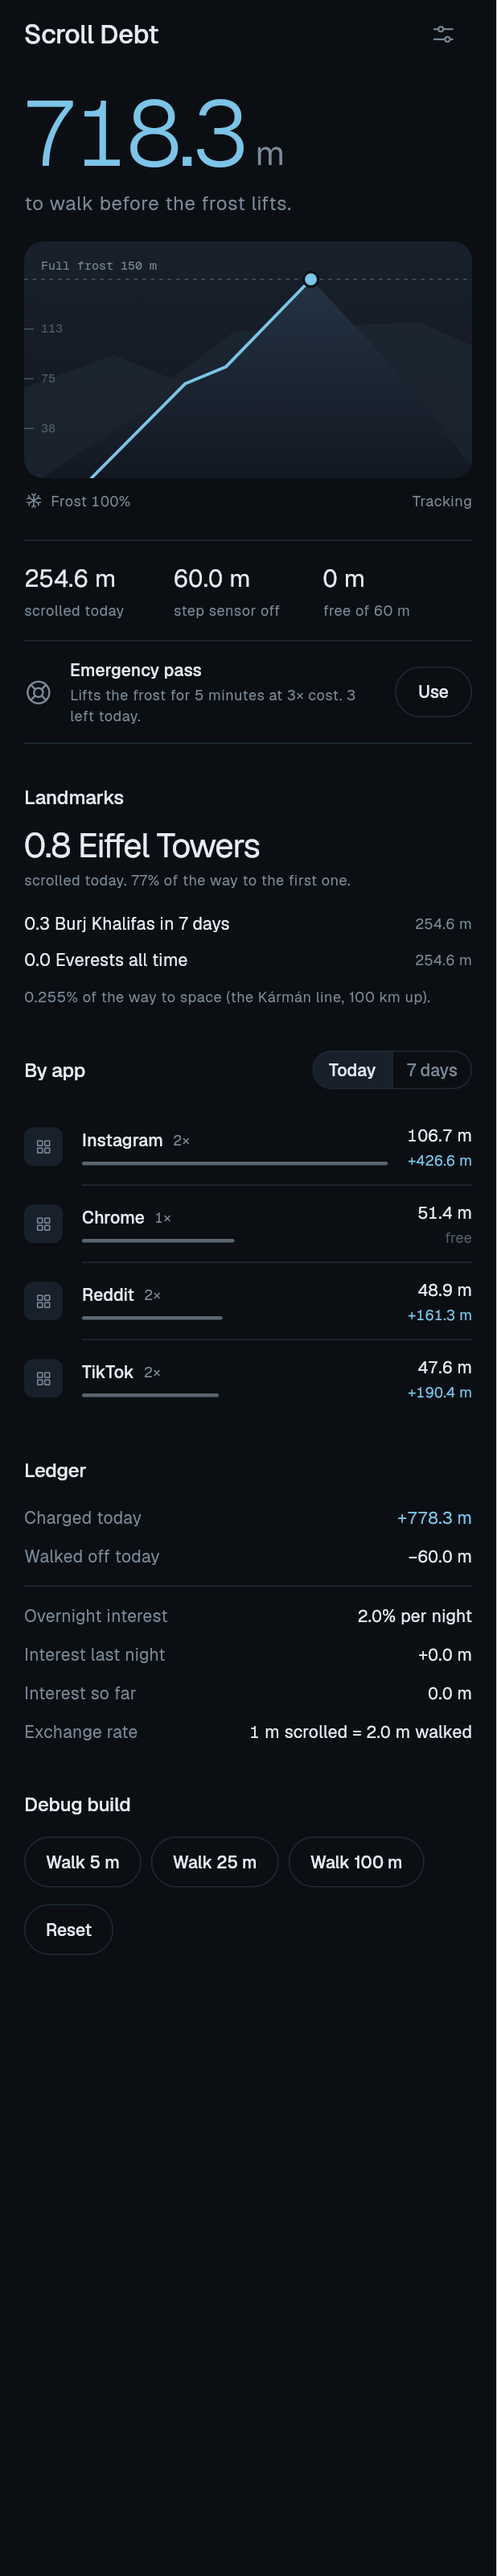
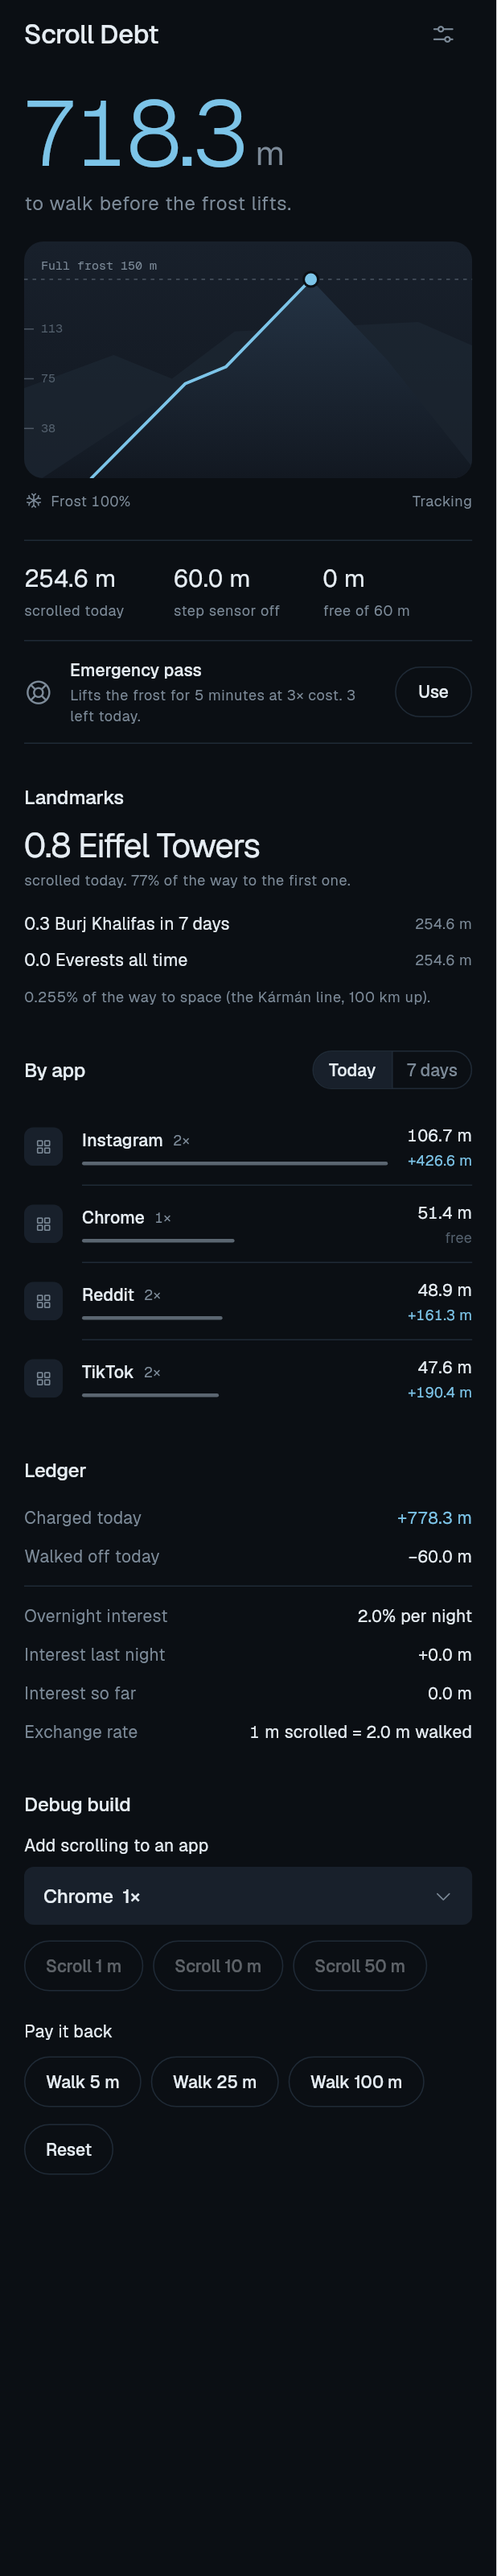
Debug builds: inject scroll metres into any app
Dashboard Debug section gets an app picker with Scroll 1/10/50 m buttons,
and adb gets DEBUG_SCROLL (--es pkg, --ef metres). Injected metres use the
same charging path as real scrolling (allowance, app rate, ratio, pass
penalty); exempt and free apps are ignored. Dropdown arrows now use the
bundled Phosphor caret.

Claude-Session: https://claude.ai/code/session_01YCY2t1jaTZchcHkSfcDLD6

Changed region(s): [[0.0922, 0.7188, 0.246, 0.8438], [0.7379, 0.75, 0.7686, 0.7812]]

diff --git a/lib/ui/home_screen.dart b/lib/ui/home_screen.dart
@@ -8,6 +8,7 @@ import '../core/app_catalog.dart';
 import '../core/landmarks.dart';
 import '../core/units.dart';
 import '../services/controller.dart';
+import '../services/native_bridge.dart';
 import '../services/store.dart';
 import 'altitude_gauge.dart';
 import 'icons.dart';
@@ -480,14 +481,75 @@ class _Ledger extends StatelessWidget {
       '${t.day}.${t.month}. ${t.hour.toString().padLeft(2, '0')}:${t.minute.toString().padLeft(2, '0')}';
 }
 
-class _DebugTools extends StatelessWidget {
+class _DebugTools extends StatefulWidget {
   const _DebugTools({required this.c});
   final ScrollDebtController c;
 
   @override
-  Widget build(BuildContext context) => Wrap(spacing: 8, runSpacing: 8, children: [
-        for (final m in [5.0, 25.0, 100.0])
-          OutlinedButton(onPressed: () => c.debugInjectWalk(m), child: Text('Walk ${m.toStringAsFixed(0)} m')),
-        OutlinedButton(onPressed: c.resetAll, child: const Text('Reset')),
-      ]);
+  State<_DebugTools> createState() => _DebugToolsState();
+}
+
+/// Debug builds only: fake scrolling in any app and fake walking, both
+/// through the same pricing path as the real sensors.
+class _DebugToolsState extends State<_DebugTools> {
+  late final Future<List<AppMeta>> _apps;
+  String? _pkg;
+
+  @override
+  void initState() {
+    super.initState();
+    _apps = widget.c.launchableApps().catchError((Object _) => <AppMeta>[]);
+  }
+
+  @override
+  Widget build(BuildContext context) {
+    final c = widget.c;
+    final t = Theme.of(context).textTheme;
+    return FutureBuilder<List<AppMeta>>(
+      future: _apps,
+      builder: (context, snap) {
+        final apps = (snap.data ?? const <AppMeta>[]).where((a) => !c.catalog.isExempt(a.pkg)).toList()
+          ..sort((a, b) => a.label.toLowerCase().compareTo(b.label.toLowerCase()));
+        final pkg = _pkg ?? (apps.isNotEmpty ? apps.first.pkg : null);
+        return Column(crossAxisAlignment: CrossAxisAlignment.start, children: [
+          Text('Add scrolling to an app', style: t.bodyMedium),
+          const SizedBox(height: 8),
+          if (apps.isEmpty)
+            Text('Loading apps…', style: t.bodySmall)
+          else
+            DropdownButtonFormField<String>(
+              initialValue: pkg,
+              isExpanded: true,
+              icon: const Icon(Ph.caretDown, size: 16, color: Palette.muted),
+              dropdownColor: Palette.raised2,
+              borderRadius: BorderRadius.circular(Radii.small),
+              items: [
+                for (final a in apps)
+                  DropdownMenuItem(
+                    value: a.pkg,
+                    child: Text('${a.label}  ${rateLabel(c.catalog.rateFor(a.pkg))}', overflow: TextOverflow.ellipsis),
+                  ),
+              ],
+              onChanged: (v) => setState(() => _pkg = v),
+            ),
+          const SizedBox(height: 10),
+          Wrap(spacing: 8, runSpacing: 8, children: [
+            for (final m in [1.0, 10.0, 50.0])
+              OutlinedButton(
+                onPressed: pkg == null ? null : () => c.debugInjectScroll(pkg, m),
+                child: Text('Scroll ${m.toStringAsFixed(0)} m'),
+              ),
+          ]),
+          const SizedBox(height: 20),
+          Text('Pay it back', style: t.bodyMedium),
+          const SizedBox(height: 8),
+          Wrap(spacing: 8, runSpacing: 8, children: [
+            for (final m in [5.0, 25.0, 100.0])
+              OutlinedButton(onPressed: () => c.debugInjectWalk(m), child: Text('Walk ${m.toStringAsFixed(0)} m')),
+            OutlinedButton(onPressed: c.resetAll, child: const Text('Reset')),
+          ]),
+        ]);
+      },
+    );
+  }
 }

diff --git a/lib/services/controller.dart b/lib/services/controller.dart
@@ -186,6 +186,11 @@ class ScrollDebtController extends ChangeNotifier {
           final m = ((args as Map<Object?, Object?>)['metres'] as num).toDouble();
           _applyWalk(m, source: 'debug');
         }
+      case 'debugInjectScroll':
+        if (kDebugMode) {
+          final a = args as Map<Object?, Object?>;
+          debugInjectScroll(a['pkg'] as String, (a['metres'] as num).toDouble());
+        }
       case 'debugDump':
         if (kDebugMode) {
           _log('dump ${jsonEncode(state.toJson())} frost=${frostLevel.toStringAsFixed(3)} '
@@ -205,19 +210,23 @@ class ScrollDebtController extends ChangeNotifier {
     }
     _setForeground(e.pkg);
     if (s.metres <= 0) return;
-    final rate = catalog.rateFor(e.pkg);
-    if (rate <= 0) return;
-    final now = DateTime.fromMillisecondsSinceEpoch(e.timeMs);
-    final rolled = _engine.state.dayKey != dayKeyOf(now);
     final weight = _flick.weigh(e.pkg, s.metres, e.timeMs);
-    final charge = _engine.applyScroll(metres: s.metres, appRate: rate, at: now, velocityWeight: weight);
+    _chargeScroll(e.pkg, s.metres, DateTime.fromMillisecondsSinceEpoch(e.timeMs),
+        weight: weight, source: '${s.source.name} px=${s.pixels.toStringAsFixed(0)}');
+  }
+
+  /// The single charging path for scrolled distance (real or injected).
+  void _chargeScroll(String pkg, double metres, DateTime at, {double weight = 1, required String source}) {
+    final rate = catalog.rateFor(pkg);
+    if (rate <= 0 || metres <= 0) return;
+    final rolled = _engine.state.dayKey != dayKeyOf(at);
+    final charge = _engine.applyScroll(metres: metres, appRate: rate, at: at, velocityWeight: weight);
     if (rolled) _onRolledOver();
-    _addAppDelta(e.pkg, charge.rawM, charge.costM);
-    _ensureMeta(e.pkg);
-    _log('scroll pkg=${e.pkg} src=${s.source.name} px=${s.pixels.toStringAsFixed(0)} '
-        'm=${s.metres.toStringAsFixed(3)} w=${weight.toStringAsFixed(2)} '
+    _addAppDelta(pkg, charge.rawM, charge.costM);
+    _ensureMeta(pkg);
+    _log('scroll pkg=$pkg src=$source m=${metres.toStringAsFixed(3)} w=${weight.toStringAsFixed(2)} '
         'cost=${charge.costM.toStringAsFixed(3)} debt=${debtM.toStringAsFixed(2)} '
-        'today=${todayApps[e.pkg]!.rawM.toStringAsFixed(2)}');
+        'today=${todayApps[pkg]!.rawM.toStringAsFixed(2)}');
     _changed();
   }
 
@@ -298,6 +307,18 @@ class ScrollDebtController extends ChangeNotifier {
   /// Debug builds only: simulate walking (the real path is the pedometer).
   void debugInjectWalk(double metres) {
     if (kDebugMode) _applyWalk(metres, source: 'debug');
+  }
+
+  /// Debug builds only: add [metres] of scrolling to [pkg], priced exactly
+  /// like real scrolling (allowance, app rate, ratio, pass penalty) at weight 1.
+  /// Exempt and free (0x) apps are ignored, as they would be for real.
+  void debugInjectScroll(String pkg, double metres) {
+    if (!kDebugMode) return;
+    if (catalog.isExempt(pkg)) {
+      _log('debug scroll ignored: $pkg is exempt');
+      return;
+    }
+    _chargeScroll(pkg, metres, DateTime.now(), source: 'debug');
   }
 
   // -------------------------------------------------------------- override

diff --git a/android/app/src/debug/kotlin/com/lan/scrolldebt/DebugReceiver.kt b/android/app/src/debug/kotlin/com/lan/scrolldebt/DebugReceiver.kt
@@ -9,6 +9,8 @@ import android.content.Intent
  *   adb shell am broadcast -n com.lan.scrolldebt/.DebugReceiver \
  *       -a com.lan.scrolldebt.DEBUG_WALK --ef metres 25
  *   adb shell am broadcast -n com.lan.scrolldebt/.DebugReceiver \
+ *       -a com.lan.scrolldebt.DEBUG_SCROLL --es pkg com.instagram.android --ef metres 10
+ *   adb shell am broadcast -n com.lan.scrolldebt/.DebugReceiver \
  *       -a com.lan.scrolldebt.DEBUG_DUMP
  */
 class DebugReceiver : BroadcastReceiver() {
@@ -17,6 +19,10 @@ class DebugReceiver : BroadcastReceiver() {
         when (intent.action) {
             "com.lan.scrolldebt.DEBUG_WALK" ->
                 Shim.send("debugInjectWalk", mapOf("metres" to intent.getFloatExtra("metres", 10f).toDouble()))
+            "com.lan.scrolldebt.DEBUG_SCROLL" -> Shim.send("debugInjectScroll", mapOf(
+                "pkg" to (intent.getStringExtra("pkg") ?: "com.instagram.android"),
+                "metres" to intent.getFloatExtra("metres", 10f).toDouble(),
+            ))
             "com.lan.scrolldebt.DEBUG_DUMP" -> Shim.send("debugDump", null)
             "com.lan.scrolldebt.DEBUG_RESET" -> Shim.send("debugReset", null)
         }

diff --git a/test/pipeline_test.dart b/test/pipeline_test.dart
@@ -112,6 +112,22 @@ void main() {
     c.dispose();
   });
 
+  test('debug scroll injection is priced like real scrolling', () async {
+    final c = await ScrollDebtController.start();
+    await c.updateConfig(const DebtConfig(allowanceM: 5));
+    c.debugInjectScroll('com.instagram.android', 10); // 5 free, 5 * 2x * ratio 2
+    expect(c.debtM, closeTo(20, 1e-9));
+    expect(c.todayApps['com.instagram.android']!.rawM, closeTo(10, 1e-9));
+    c.debugInjectScroll('com.android.chrome', 10); // 1x
+    expect(c.debtM, closeTo(40, 1e-9));
+    c.debugInjectScroll('com.google.android.apps.maps', 10); // free app
+    c.debugInjectScroll('com.android.settings', 10); // exempt
+    expect(c.state.scrolledTodayM, closeTo(20, 1e-9));
+    await sendNative('debugInjectScroll', {'pkg': 'com.reddit.frontpage', 'metres': 1.0});
+    expect(c.todayApps['com.reddit.frontpage']!.rawM, closeTo(1, 1e-9));
+    c.dispose();
+  });
+
   test('widget data is pushed with metres only', () async {
     final c = await ScrollDebtController.start();
     await c.flush();

diff --git a/lib/ui/settings_screen.dart b/lib/ui/settings_screen.dart
@@ -311,6 +311,7 @@ class _RatesEditorState extends State<_RatesEditor> {
                   DropdownButton<double>(
                     value: _closest(c.catalog.rateFor(a.pkg)),
                     underline: const SizedBox.shrink(),
+                    icon: const Icon(Ph.caretDown, size: 14, color: Palette.muted),
                     borderRadius: BorderRadius.circular(Radii.small),
                     dropdownColor: Palette.raised2,
                     style: numeric.copyWith(fontSize: 14, color: Palette.text),

diff --git a/lib/ui/icons.dart b/lib/ui/icons.dart
@@ -18,4 +18,5 @@ abstract final class Ph {
   static const checkCircle = IconData(0xe184, fontFamily: _f);
   static const circle = IconData(0xe18a, fontFamily: _f);
   static const export = IconData(0xeaf0, fontFamily: _f);
+  static const caretDown = IconData(0xe136, fontFamily: _f);
 }

diff --git a/README.md b/README.md
@@ -58,6 +58,7 @@ persistence, and checks the release APK for INTERNET. The results go to `docs/de
 
 Debug-only adb hooks (absent from release builds):
 ```bash
+adb shell am broadcast -n com.lan.scrolldebt/.DebugReceiver -a com.lan.scrolldebt.DEBUG_SCROLL --es pkg com.instagram.android --ef metres 10
 adb shell am broadcast -n com.lan.scrolldebt/.DebugReceiver -a com.lan.scrolldebt.DEBUG_WALK --ef metres 25
 adb shell am broadcast -n com.lan.scrolldebt/.DebugReceiver -a com.lan.scrolldebt.DEBUG_DUMP
 adb logcat -s flutter | grep 'SD '
